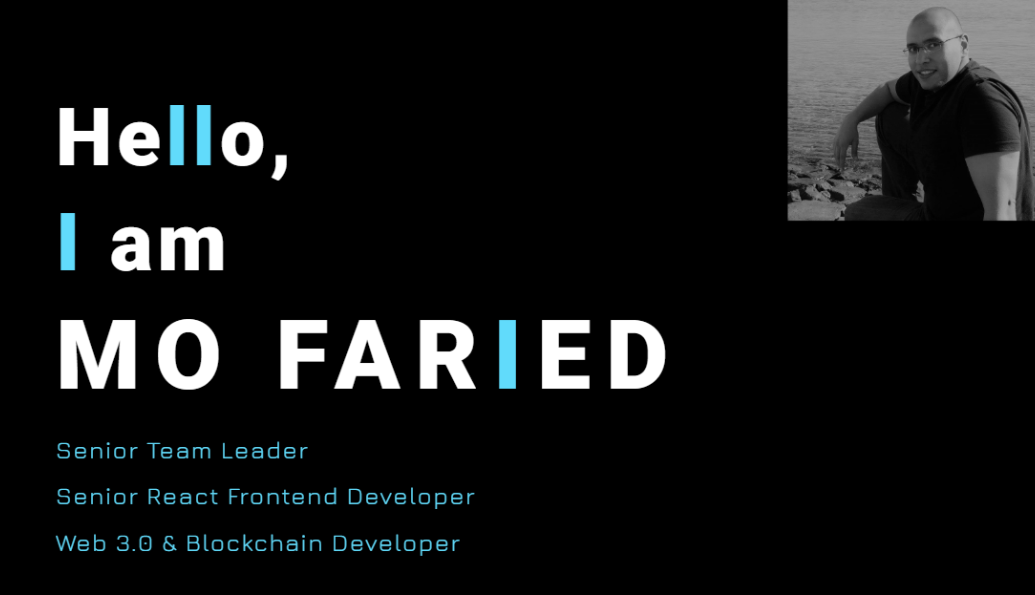
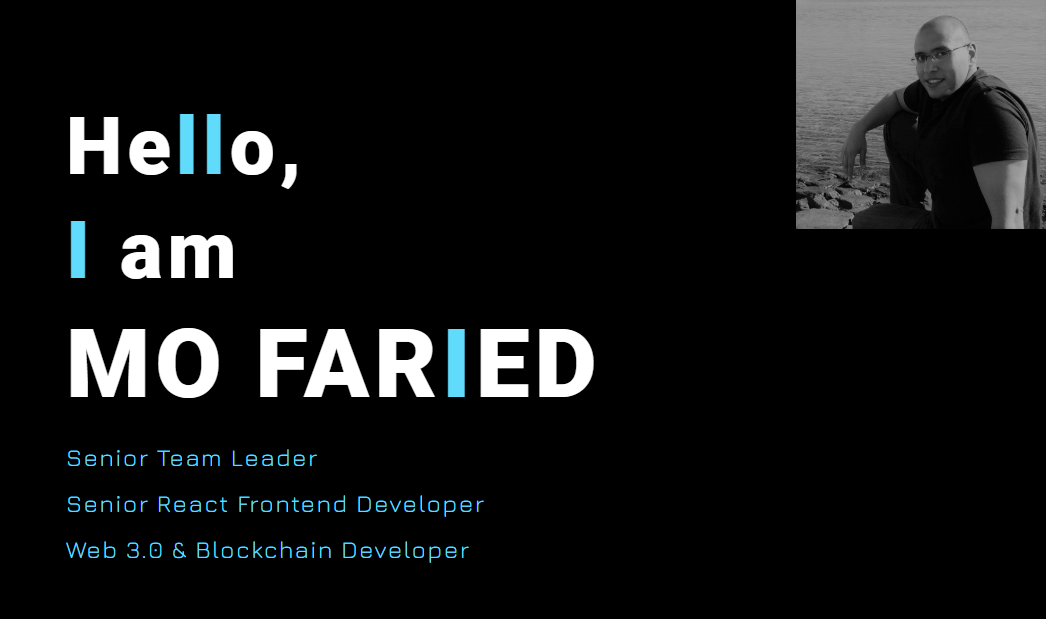
Updates

diff --git a/static/css/main.e924e4c1.chunk.css b/static/css/main.e924e4c1.chunk.css
@@ -1,0 +1,1 @@
+@import url(https://fonts.googleapis.com/css2?family=Jura:wght@300;400;500;600;700&display=swap);@import url(https://fonts.googleapis.com/css2?family=Roboto:wght@900&display=swap);nav{background-color:var(--main-card-backcolor);box-shadow:var(--main-box-shadow);color:#fff;width:100px;height:100vh;z-index:100;position:fixed;top:0;left:0;display:flex;flex-direction:column;justify-content:center;align-items:center;transition:-webkit-transform .5s ease-in-out;transition:transform .5s ease-in-out;transition:transform .5s ease-in-out,-webkit-transform .5s ease-in-out}nav.show{-webkit-transform:translateX(0);transform:translateX(0)}.nav-container{justify-content:space-between}.nav-container,.nav-container a{width:100%;display:flex;flex-direction:column;align-items:center}.nav-container a{text-decoration:none;font-size:12px;height:80px;justify-content:center;transition:-webkit-transform .2s ease-in-out;transition:transform .2s ease-in-out;transition:transform .2s ease-in-out,-webkit-transform .2s ease-in-out}.nav-container a:hover{-webkit-transform:scale(1.3);transform:scale(1.3)}.nav-container img{width:35px;height:35px}.menu-btn{background-color:initial;color:var(--main-blue);border:0;font-size:3rem;padding:0 10px;display:none;position:absolute;bottom:10px;left:50px;-webkit-transform:translateX(100%);transform:translateX(100%)}.menu-btn:active,.menu-btn:focus{outline:none}@media (max-width:1140px){nav{justify-content:flex-end;-webkit-transform:translateX(-100%);transform:translateX(-100%);border-right:5px solid;border-color:#fff;width:120px}.nav-container{flex-direction:column-reverse;margin-bottom:50px}.menu-btn{display:block}}.page-enter{opacity:0;-webkit-transform:scale(1.1);transform:scale(1.1)}.page-enter-active{transition:opacity .3s,-webkit-transform .3s;transition:opacity .3s,transform .3s;transition:opacity .3s,transform .3s,-webkit-transform .3s}.page-enter-active,.page-exit{opacity:1;-webkit-transform:scale(1);transform:scale(1)}.page-exit-active{opacity:0;-webkit-transform:scale(.9);transform:scale(.9);transition:opacity .3s,-webkit-transform .3s;transition:opacity .3s,transform .3s;transition:opacity .3s,transform .3s,-webkit-transform .3s}.fade-enter{opacity:0}.fade-enter-active,.fade-exit{opacity:1}.fade-exit-active{opacity:0}.fade-enter-active,.fade-exit-active{transition:opacity .5s ease-in-out}.intro-container{background-color:var(--main-card-backcolor);box-shadow:var(--main-box-shadow);position:relative;display:flex;justify-content:space-between;transition:-webkit-transform .5s ease-in-out;transition:transform .5s ease-in-out;transition:transform .5s ease-in-out,-webkit-transform .5s ease-in-out}.intro-container:hover{-webkit-transform:scale(1.05);transform:scale(1.05);-webkit-animation:glowing 1s ease-in-out;animation:glowing 1s ease-in-out;-webkit-animation-fill-mode:forwards;animation-fill-mode:forwards}.intro-container:hover img{-webkit-animation:glowing 2s ease-in-out;animation:glowing 2s ease-in-out;-webkit-animation-fill-mode:forwards;animation-fill-mode:forwards}.intro-container .logo{z-index:1;position:absolute;top:-20px;right:30px}.intro-container img{max-width:250px}.intro-text{font-family:Roboto,sans-serif;padding:150px 100px;z-index:2;display:flex;flex-direction:column;justify-content:center;align-items:left}.intro-text h1{letter-spacing:5px;font-size:6rem}.intro-text h2{font-size:5rem;letter-spacing:5px}.intro-text-sub-container{width:100%}.intro-text-sub{color:var(--main-blue);width:100%;font-family:Jura,sans-serif;font-size:1.5rem;letter-spacing:1.5px;margin-top:10px}@media (max-width:1140px){.intro-container{flex-direction:column;align-items:center;justify-content:center}.intro-container .logo{position:relative;top:-40px;right:0;margin:20px auto}.intro-text{padding:100px;align-items:center}}@media (max-width:960px){.intro-text{padding:90px}.intro-text h1{font-size:5rem;letter-spacing:5px}.intro-text h2{font-size:4rem;letter-spacing:5px}}@media (max-width:720px){.intro-text{padding:70px}.intro-text h1{font-size:4rem;letter-spacing:5px}.intro-text h2{font-size:3rem;letter-spacing:5px}.intro-text-sub{font-size:1rem;letter-spacing:1px}}@media (max-width:540px){.intro-text{padding:60px}.intro-text h1{font-size:3rem}.intro-text h2{font-size:2rem}.intro-text-sub{font-size:1rem}}@media (max-width:330px){.intro-container img{max-width:150px}.intro-text{padding:30px}.intro-text h1{font-size:2rem}.intro-text h2{font-size:1.5rem}.intro-text-sub{font-size:.8rem}}.pitch-container{background-color:var(--main-card-backcolor);box-shadow:var(--main-box-shadow);font-family:Jura,sans-serif;font-size:1.5rem;padding:30px;text-align:left;transition:-webkit-transform .5s ease-in-out;transition:transform .5s ease-in-out;transition:transform .5s ease-in-out,-webkit-transform .5s ease-in-out}.pitch-container:hover{-webkit-transform:scale(1.05);transform:scale(1.05)}.pitch-container a{color:var(--main-blue)}.pitch-container p{margin-bottom:25px}@media (max-width:720px){.pitch-container{font-size:1.2rem}}.skill-card{box-shadow:var(--main-box-shadow);background-color:var(--main-card-backcolor);margin:20px 0;height:500px;padding:10px 15px;cursor:pointer;transition:-webkit-transform .3s ease-in-out;transition:transform .3s ease-in-out;transition:transform .3s ease-in-out,-webkit-transform .3s ease-in-out}.skill-card:hover{-webkit-transform:scale(1.05);transform:scale(1.05)}.skill-card a{text-decoration:none;color:#fff;width:100%;height:100%}.skill-card-content{font-family:Jura,sans-serif;width:100%;height:100%;flex-direction:column}.skill-card-content,.skill-card-content .logo{display:flex;justify-content:center;align-items:center}.skill-card-content .logo{flex:2 1;flex-direction:column;min-width:200px}.skill-card-content .logo img{width:150px;height:150px}.skill-card-content .multi-logo{flex:2 1;width:60%;height:80px;margin:0;display:flex;flex-wrap:wrap;justify-content:space-around;align-items:center}.skill-card-content .multi-logo img{width:60px;height:60px}.skill-card-content .description{flex:1 1;text-align:center;font-size:1.5rem;padding:0 20px}.skill-card small{visibility:hidden;width:100%;text-align:right}.skill-card:hover small{visibility:visible}.project{font-family:Jura,sans-serif;background-color:var(--main-card-backcolor);box-shadow:var(--main-box-shadow);padding:40px;margin-top:40px;position:relative}.project h1{font-size:4rem}.project h1,.project h3{color:var(--main-blue)}.project a{color:var(--main-font-color)}.project .techs{position:absolute;right:20px;top:20px}.project .techs img{height:25px;margin:0 5px}.project-body{display:flex;flex-direction:column;margin-top:20px}.screen-shot{flex:2 1;display:flex;align-items:center;justify-content:space-evenly;margin:50px 0}.screen-shot img{max-width:300px;margin-bottom:5px}.project-body .description{flex:5 1;display:flex;flex-direction:column;justify-content:center}.project-body .description p,.project-body .description ul{font-size:1.2rem}@media (max-width:1140px){.screen-shot img{max-width:300px}}@media (max-width:970px){.screen-shot img{max-width:200px}}@media (max-width:720px){.screen-shot{flex-direction:column}.project .techs{right:10px;top:10px}.project .techs img{height:15px}.project h1{font-size:2rem;color:var(--main-blue)}}.field-container{background-color:var(--main-card-backcolor);box-shadow:var(--main-box-shadow);width:100%;padding:40px 60px;display:flex;flex-direction:column;justify-content:center;align-items:center;font-family:Jura,sans-serif}.field-container a{color:var(--main-purple)}.field-container p{font-size:1.3rem}.field-container ul{margin:30px 0}.field-container li{margin:20px 0}.field-logo{margin-bottom:50px;display:flex;flex-direction:column;justify-content:center;align-items:center}.field-logo img{max-width:200px}@media (max-width:540px){.field-container{padding:20px 30px}.field-logo{margin-bottom:0}.field-logo img{max-width:150px}.field-container h1{font-size:1.5rem}.field-container p{font-size:1rem}.field-container ul{margin:0}.field-container li{margin:5px 0}}.contacts-body{background-color:var(--main-card-backcolor);box-shadow:var(--main-box-shadow);padding:70px;font-size:1.5rem}.contacts-body a{text-decoration:underline;color:#fff}@media (max-width:540px){.contacts-body{font-size:1rem;padding:25px}}:root{--main-background-color:#2c2b31;--main-card-backcolor:#000;--main-font-color:#fff;--main-blue:#61dbfb;--main-red:#f16059;--main-yellow:#ffd42d;--main-purple:#9358d3;--main-box-shadow:0 20px 20px 10px rgba(0,0,0,0.5)}*{box-sizing:border-box;color:#fff;color:var(--main-font-color)}body,html{background-color:#2c2b31;background-color:var(--main-background-color);scroll-behavior:smooth}::-webkit-scrollbar{width:10px}::-webkit-scrollbar-thumb{background-color:#000;background-color:var(--main-card-backcolor);min-height:50px}.text-purple{color:#9358d3;color:var(--main-purple)}.text-red{color:#f16059;color:var(--main-red)}.text-yellow{color:#ffd42d;color:var(--main-yellow)}.text-blue{color:#61dbfb;color:var(--main-blue)}.text-green{color:#589636}@-webkit-keyframes glowing{0%{box-shadow:0}to{box-shadow:0 0 5px #61dbfb,0 0 20px #61dbfb,0 0 40px #2196f3;box-shadow:0 0 5px var(--main-blue),0 0 20px var(--main-blue),0 0 40px #2196f3}}@keyframes glowing{0%{box-shadow:0}to{box-shadow:0 0 5px #61dbfb,0 0 20px #61dbfb,0 0 40px #2196f3;box-shadow:0 0 5px var(--main-blue),0 0 20px var(--main-blue),0 0 40px #2196f3}}

diff --git a/index.html b/index.html
@@ -1,1 +1,1 @@
-<!doctype html><html lang="en"><head><title>Mo Faried Portfolio</title><meta charset="utf-8"/><meta name="description" content="Senior Frontend React Team Leader Portfolio"/><meta name="author" content="Mo Faried"/><meta name="viewport" content="width=device-width,initial-scale=1,shrink-to-fit=no"><meta name="robots" content="index"/><meta name="language" content="english"/><meta name="rating" content="safe for kids"><meta name="HandheldFriendly" content="true"/><meta name="format-detection" content="telephone=yes"/><meta name="format-detection" content="email=yes"/><meta property="og:title" content="Mo Faried Portfolio"/><meta property="og:site_name" content="Mo Faried Portfolio"/><meta property="og:description" content="Senior Frontend React Team Leader Portfolio"/><meta property="og:image" content="/m-faried-portfolio/images/portfolio_preview.png"/><meta property="og:url" content="https://m-faried.github.io/m-faried-portfolio"/><meta property="og:type" content="website"/><meta property="og:locale" content="en_US"/><meta name="theme-color" content="#000000"/><link rel="icon" href="/m-faried-portfolio/images/address-card-solid.svg"/><link rel="apple-touch-icon" href="/m-faried-portfolio/logo192.png"/><link rel="manifest" href="/m-faried-portfolio/manifest.json"/><link rel="stylesheet" href="https://stackpath.bootstrapcdn.com/bootstrap/4.3.1/css/bootstrap.min.css" integrity="sha384-ggOyR0iXCbMQv3Xipma34MD+dH/1fQ784/j6cY/iJTQUOhcWr7x9JvoRxT2MZw1T" crossorigin="anonymous"><link rel="stylesheet" href="https://cdnjs.cloudflare.com/ajax/libs/font-awesome/5.13.1/css/all.min.css"><script async src="https://www.googletagmanager.com/gtag/js?id=UA-170882774-1"></script><script>function gtag(){dataLayer.push(arguments)}window.dataLayer=window.dataLayer||[],gtag("js",new Date),gtag("config","UA-170882774-1")</script><link href="/m-faried-portfolio/static/css/main.1fee0c83.chunk.css" rel="stylesheet"></head><body><noscript>You need to enable JavaScript to run this app.</noscript><div id="root"></div><script>!function(l){function e(e){for(var r,t,n=e[0],o=e[1],u=e[2],f=0,i=[];f<n.length;f++)t=n[f],p[t]&&i.push(p[t][0]),p[t]=0;for(r in o)Object.prototype.hasOwnProperty.call(o,r)&&(l[r]=o[r]);for(s&&s(e);i.length;)i.shift()();return c.push.apply(c,u||[]),a()}function a(){for(var e,r=0;r<c.length;r++){for(var t=c[r],n=!0,o=1;o<t.length;o++){var u=t[o];0!==p[u]&&(n=!1)}n&&(c.splice(r--,1),e=f(f.s=t[0]))}return e}var t={},p={2:0},c=[];function f(e){if(t[e])return t[e].exports;var r=t[e]={i:e,l:!1,exports:{}};return l[e].call(r.exports,r,r.exports,f),r.l=!0,r.exports}f.m=l,f.c=t,f.d=function(e,r,t){f.o(e,r)||Object.defineProperty(e,r,{enumerable:!0,get:t})},f.r=function(e){"undefined"!=typeof Symbol&&Symbol.toStringTag&&Object.defineProperty(e,Symbol.toStringTag,{value:"Module"}),Object.defineProperty(e,"__esModule",{value:!0})},f.t=function(r,e){if(1&e&&(r=f(r)),8&e)return r;if(4&e&&"object"==typeof r&&r&&r.__esModule)return r;var t=Object.create(null);if(f.r(t),Object.defineProperty(t,"default",{enumerable:!0,value:r}),2&e&&"string"!=typeof r)for(var n in r)f.d(t,n,function(e){return r[e]}.bind(null,n));return t},f.n=function(e){var r=e&&e.__esModule?function(){return e.default}:function(){return e};return f.d(r,"a",r),r},f.o=function(e,r){return Object.prototype.hasOwnProperty.call(e,r)},f.p="/m-faried-portfolio/";var r=window.webpackJsonp=window.webpackJsonp||[],n=r.push.bind(r);r.push=e,r=r.slice();for(var o=0;o<r.length;o++)e(r[o]);var s=n;a()}([])</script><script src="/m-faried-portfolio/static/js/1.402ed4cd.chunk.js"></script><script src="/m-faried-portfolio/static/js/main.9fa8e3bf.chunk.js"></script></body></html>
+<!doctype html><html lang="en"><head><title>Mo Faried Portfolio</title><meta charset="utf-8"/><meta name="description" content="Senior Frontend React Team Leader Portfolio"/><meta name="author" content="Mo Faried"/><meta name="viewport" content="width=device-width,initial-scale=1,shrink-to-fit=no"><meta name="robots" content="index"/><meta name="language" content="english"/><meta name="rating" content="safe for kids"><meta name="HandheldFriendly" content="true"/><meta name="format-detection" content="telephone=yes"/><meta name="format-detection" content="email=yes"/><meta property="og:title" content="Mo Faried Portfolio"/><meta property="og:site_name" content="Mo Faried Portfolio"/><meta property="og:description" content="Senior Frontend React Team Leader Portfolio"/><meta property="og:image" content="/m-faried-portfolio/images/portfolio_preview.png"/><meta property="og:url" content="https://m-faried.github.io/m-faried-portfolio"/><meta property="og:type" content="website"/><meta property="og:locale" content="en_US"/><meta name="theme-color" content="#000000"/><link rel="icon" href="/m-faried-portfolio/images/address-card-solid.svg"/><link rel="apple-touch-icon" href="/m-faried-portfolio/logo192.png"/><link rel="manifest" href="/m-faried-portfolio/manifest.json"/><link rel="stylesheet" href="https://stackpath.bootstrapcdn.com/bootstrap/4.3.1/css/bootstrap.min.css" integrity="sha384-ggOyR0iXCbMQv3Xipma34MD+dH/1fQ784/j6cY/iJTQUOhcWr7x9JvoRxT2MZw1T" crossorigin="anonymous"><link rel="stylesheet" href="https://cdnjs.cloudflare.com/ajax/libs/font-awesome/5.13.1/css/all.min.css"><script async src="https://www.googletagmanager.com/gtag/js?id=UA-170882774-1"></script><script>function gtag(){dataLayer.push(arguments)}window.dataLayer=window.dataLayer||[],gtag("js",new Date),gtag("config","UA-170882774-1")</script><link href="/m-faried-portfolio/static/css/main.e924e4c1.chunk.css" rel="stylesheet"></head><body><noscript>You need to enable JavaScript to run this app.</noscript><div id="root"></div><script>!function(l){function e(e){for(var r,t,n=e[0],o=e[1],u=e[2],f=0,i=[];f<n.length;f++)t=n[f],p[t]&&i.push(p[t][0]),p[t]=0;for(r in o)Object.prototype.hasOwnProperty.call(o,r)&&(l[r]=o[r]);for(s&&s(e);i.length;)i.shift()();return c.push.apply(c,u||[]),a()}function a(){for(var e,r=0;r<c.length;r++){for(var t=c[r],n=!0,o=1;o<t.length;o++){var u=t[o];0!==p[u]&&(n=!1)}n&&(c.splice(r--,1),e=f(f.s=t[0]))}return e}var t={},p={2:0},c=[];function f(e){if(t[e])return t[e].exports;var r=t[e]={i:e,l:!1,exports:{}};return l[e].call(r.exports,r,r.exports,f),r.l=!0,r.exports}f.m=l,f.c=t,f.d=function(e,r,t){f.o(e,r)||Object.defineProperty(e,r,{enumerable:!0,get:t})},f.r=function(e){"undefined"!=typeof Symbol&&Symbol.toStringTag&&Object.defineProperty(e,Symbol.toStringTag,{value:"Module"}),Object.defineProperty(e,"__esModule",{value:!0})},f.t=function(r,e){if(1&e&&(r=f(r)),8&e)return r;if(4&e&&"object"==typeof r&&r&&r.__esModule)return r;var t=Object.create(null);if(f.r(t),Object.defineProperty(t,"default",{enumerable:!0,value:r}),2&e&&"string"!=typeof r)for(var n in r)f.d(t,n,function(e){return r[e]}.bind(null,n));return t},f.n=function(e){var r=e&&e.__esModule?function(){return e.default}:function(){return e};return f.d(r,"a",r),r},f.o=function(e,r){return Object.prototype.hasOwnProperty.call(e,r)},f.p="/m-faried-portfolio/";var r=window.webpackJsonp=window.webpackJsonp||[],n=r.push.bind(r);r.push=e,r=r.slice();for(var o=0;o<r.length;o++)e(r[o]);var s=n;a()}([])</script><script src="/m-faried-portfolio/static/js/1.402ed4cd.chunk.js"></script><script src="/m-faried-portfolio/static/js/main.f8ffb9ea.chunk.js"></script></body></html>

diff --git a/precache-manifest.70768f7cb7e6b3149b9a8dac511e3e9a.js b/precache-manifest.70768f7cb7e6b3149b9a8dac511e3e9a.js
@@ -1,11 +1,11 @@
 self.__precacheManifest = [
   {
-    "revision": "9fa8e3bf8b83ad2371fa",
-    "url": "/m-faried-portfolio/static/css/main.1fee0c83.chunk.css"
+    "revision": "f8ffb9ea19ac59c68e5b",
+    "url": "/m-faried-portfolio/static/css/main.e924e4c1.chunk.css"
   },
   {
-    "revision": "9fa8e3bf8b83ad2371fa",
-    "url": "/m-faried-portfolio/static/js/main.9fa8e3bf.chunk.js"
+    "revision": "f8ffb9ea19ac59c68e5b",
+    "url": "/m-faried-portfolio/static/js/main.f8ffb9ea.chunk.js"
   },
   {
     "revision": "402ed4cd91d05be8fd6d",
@@ -16,7 +16,7 @@ self.__precacheManifest = [
     "url": "/m-faried-portfolio/static/js/runtime~main.6824927c.js"
   },
   {
-    "revision": "b45cf21c1554a514d5411c7d28950f93",
+    "revision": "f9279b975538dc91fe7ee759b2e506c4",
     "url": "/m-faried-portfolio/index.html"
   }
 ];

diff --git a/service-worker.js b/service-worker.js
@@ -14,7 +14,7 @@
 importScripts("https://storage.googleapis.com/workbox-cdn/releases/3.6.3/workbox-sw.js");
 
 importScripts(
-  "/m-faried-portfolio/precache-manifest.1d28b1501f6e3904165bbbc9e1be74e4.js"
+  "/m-faried-portfolio/precache-manifest.70768f7cb7e6b3149b9a8dac511e3e9a.js"
 );
 
 workbox.clientsClaim();
